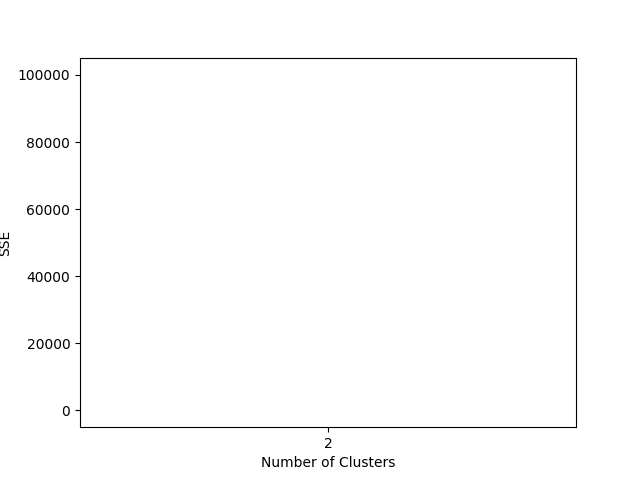
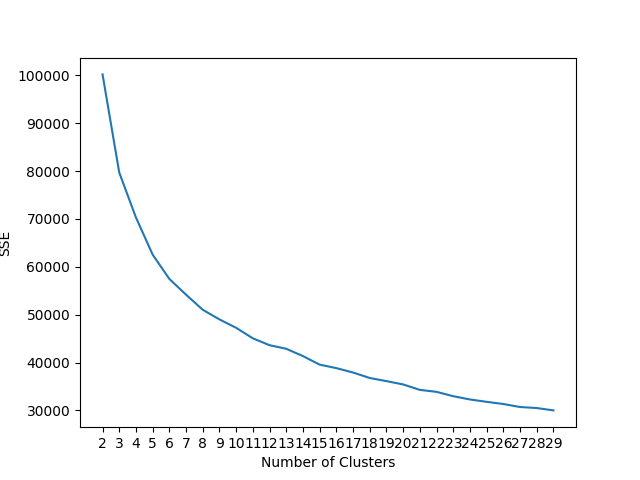
final commit

diff --git a/MRPredictor.py b/MRPredictor.py
@@ -7,13 +7,11 @@ from scipy import stats
 from mrjob.job import MRJob
 from mrjob.step import MRStep
 from mrjob.protocol import JSONProtocol
-from mrjob.compat import jobconf_from_env
-#import MRKnnTrain
 import heapq
 import os
 import ast
 
-
+INPUT_PROTOCOL = JSONProtocol
 OUTPUT_PROTOCOL = JSONProtocol
 
 current = os.getcwd()
@@ -70,17 +68,16 @@ class KNNTest(MRJob):
         super(KNNTest, self).__init__(*args, **kwargs)
 
     def steps(self): 
-        return ([MRStep(mapper=self.mapper,reducer=self.reducer)])
+        return [MRStep(mapper=self.mapper,combiner=self.combiner,reducer=self.reducer)]#
+        #,MRStep(reducer=self.get_k_songs_with_mindist)]
 
     def mapper(self,_,line):
         '''
         Mapper function. Receives each row of the test set, extracts its feature set, and calculates the K points in the training set that are closest to it.
         The class with the most K points is determined and the class corresponding to that test ssample is predicted to be that class. 
         '''
-        self.increment_counter('group','num_mapper_calls',1)
         # Extract feature set and class of test data
         data = line.split(',')
-        label = data[-1]
         features = [float(x) for x in data[1:-1]] #austauschen durch lambda
         features_id = data[0]
         nearest = [] #k nearest points
@@ -104,20 +101,29 @@ class KNNTest(MRJob):
                 if(dis_euk > nearest[0][0]):
                     #If the distance of the new point is less than the longest point in the nearest, the longest point is popped out and the new point enters the nearest
                     heapq.heapreplace(nearest,item)
-              
-        yield features_id, nearest
+        
+        subresult = []
+        for neighbour in nearest:
+            nn = [neighbour[0], neighbour[3]]
+            subresult.append(nn)
 
-    def reducer(self, features_id, nearest):
-        '''
-        Reducer function that checks for suggestions for each line and writes them in a file
-        '''
-        nearest_list = []
-        for near in nearest:
-            for i in near:
-                nearest_list.append(i[3]) 
 
-        yield features_id, nearest_list
+        yield features_id, subresult
 
+    def combiner(self, features_id, subresult):
+    
+        features_list = []
+        for feature in subresult:
+            features_list.append(feature)
+            
+        yield features_id, features_list
+
+    def reducer(self, features_id, subresults):
+
+        final_list = pd.Series(subresults)
+        kNN = final_list.nlargest(5)
+
+        yield features_id, kNN
 
 if __name__ == '__main__':
     KNNTest.run()

diff --git a/Clustering.py b/Clustering.py
@@ -1,10 +1,11 @@
 import numpy as np
 import pandas as pd
-from sklearn import cluster
+
 import os
 import matplotlib.pyplot as plt
 import matplotlib
 from sklearn.metrics import silhouette_score
+from sklearn import cluster
 from sklearn.preprocessing import MinMaxScaler
 
 # matplotlib.use("pgf")
@@ -28,27 +29,27 @@ scaler = MinMaxScaler() # You use MinMaxScaler when you do not assume that the s
 data[:,2:] = scaler.fit_transform(data[:,2:])
 
 sse = []
-silhouette_coefficients = []
-for k in range(2, 3):
+#silhouette_coefficients = []
+for k in range(2, 30):
    cluster_model = cluster.KMeans(n_clusters=k,  init='k-means++')
    cluster_model.fit(data[:,2:])
-   score = silhouette_score(data[:,2:], cluster_model.labels_)
+   #score = silhouette_score(data[:,2:], cluster_model.labels_)
    sse.append(cluster_model.inertia_)
-   silhouette_coefficients.append(score)
+   #silhouette_coefficients.append(score)
    print(k)
 
-#plt.style.use("fivethirtyeight")
-plt.plot(range(2, 3), silhouette_coefficients)
-plt.xticks(range(2, 3))
-plt.xlabel("Number of Clusters")
-plt.ylabel("Silhouette Coefficient")
-#plt.show()
+# #plt.style.use("fivethirtyeight")
+# plt.plot(range(2, 30), silhouette_coefficients)
+# plt.xticks(range(2, 30))
+# plt.xlabel("Number of Clusters")
+# plt.ylabel("Silhouette Coefficient")
+# #plt.show()
 
-plt.savefig('Silhouette_Coefficient.png', transparent=True)
+#plt.savefig('Silhouette_Coefficient.png', transparent=True)
 
 #plt.style.use("fivethirtyeight")
-plt.plot(range(2, 3), sse)
-plt.xticks(range(2, 3))
+plt.plot(range(2, 30), sse)
+plt.xticks(range(2, 30))
 plt.xlabel("Number of Clusters")
 plt.ylabel("SSE")
 #plt.show()

diff --git a/Preprocessing.py b/Preprocessing.py
@@ -10,17 +10,18 @@ df_to_cluster = df_to_cluster.drop(columns=['duration_ms','release_date','popula
 df_to_cluster = df_to_cluster[['id','acousticness', 'danceability', 'energy', 'instrumentalness', 'key',
        'liveness', 'loudness', 'mode', 'speechiness', 'tempo', 'valence']] # #'name','artists',
 
-data = df_to_cluster.iloc[:,2:].values
+df_to_cluster = df_to_cluster.iloc[:,:].values
 
 scaler = MinMaxScaler()
 
-data[:,2:] = scaler.fit_transform(data[:,2:])
+df_to_cluster[:,1:] = scaler.fit_transform(df_to_cluster[:,1:])
 
-cluster_model = cluster.KMeans(n_clusters=45,  init='k-means++')
-cluster_model.fit(data[:,2:])
 
-predict = cluster_model.predict(data[:,2:])
+cluster_model = cluster.KMeans(n_clusters=100,  init='k-means++')
+cluster_model.fit(df_to_cluster[:,1:])
 
-result = np.column_stack((data, predict))
+predict = cluster_model.predict(df_to_cluster[:,1:])
 
-np.savetxt('clustered_data_45.csv', result, encoding = 'utf-8', fmt = "%s,%.10f,%.10f,%.10f,%.10f,%.10f,%.10f,%.10f,%.10f,%.10f,%.10f,%.10f,%d")#%s,
+result = np.column_stack((df_to_cluster, predict))
+
+np.savetxt('clustered_data_100.csv', result, encoding = 'utf-8', fmt = "%s,%.10f,%.10f,%.10f,%.10f,%.10f,%.10f,%.10f,%.10f,%.10f,%.10f,%.10f,%d")

diff --git a/Vorverarbeitung1.py b/Vorverarbeitung1.py
@@ -1,0 +1,9 @@
+#Einlesen des Datensatzes als Pandas Dataframe und Reduktion/Sortierung der Merkmale
+df_to_cluster = pd.read_csv('.\SpotifyData.csv')
+df_to_cluster = df_to_cluster[['id','acousticness', 'danceability', 'energy', 'instrumentalness', 'key',
+       'liveness', 'loudness', 'mode', 'speechiness', 'tempo', 'valence']]
+df_to_cluster = df_to_cluster.iloc[:,:].values
+
+#Normalisierung der relevanten Merkmale mit dem MinMaxScaler
+scaler = MinMaxScaler()
+df_to_cluster[:,1:] = scaler.fit_transform(df_to_cluster[:,1:])

diff --git a/ClusterEval.py b/ClusterEval.py
@@ -1,0 +1,11 @@
+from sklearn.metrics import silhouette_score
+from sklearn import cluster
+
+sse = []
+silhouette_coefficients = []
+for k in range(2, 30):
+   cluster_model = cluster.KMeans(n_clusters=k,  init='k-means++')
+   cluster_model.fit(data[:,2:])
+   score = silhouette_score(data[:,2:], cluster_model.labels_)
+   sse.append(cluster_model.inertia_)
+   silhouette_coefficients.append(score)
